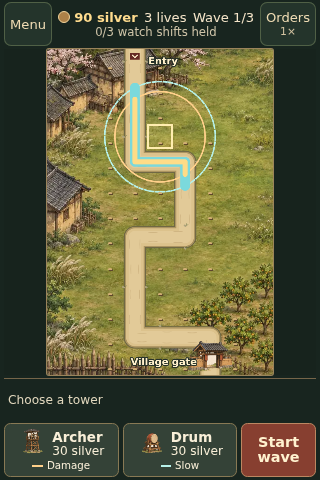
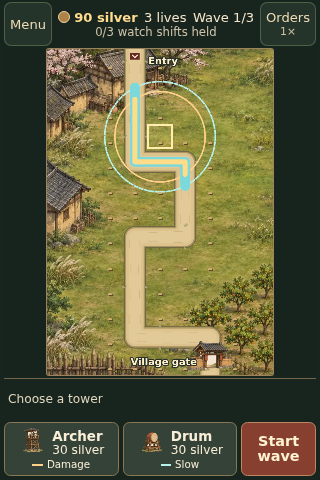
Check phone safe insets and keep dock controls inside the bottom edge

Changed region(s): [[0.0312, 0.875, 0.9688, 1.0], [0.0312, 0.8125, 0.3125, 0.8438]]

diff --git a/src/style.css b/src/style.css
@@ -203,7 +203,7 @@ button:focus-visible { outline: 2px solid #ffedaf; outline-offset: 2px; }
 .command-bar {
   display: grid;
   grid-template-rows: 44px 54px;
-  border-top: 1px solid #766549;
+  box-shadow: inset 0 1px #766549;
   box-sizing: border-box;
 }
 .command-status, .command-row { display: flex; align-items: center; gap: 4px; }
